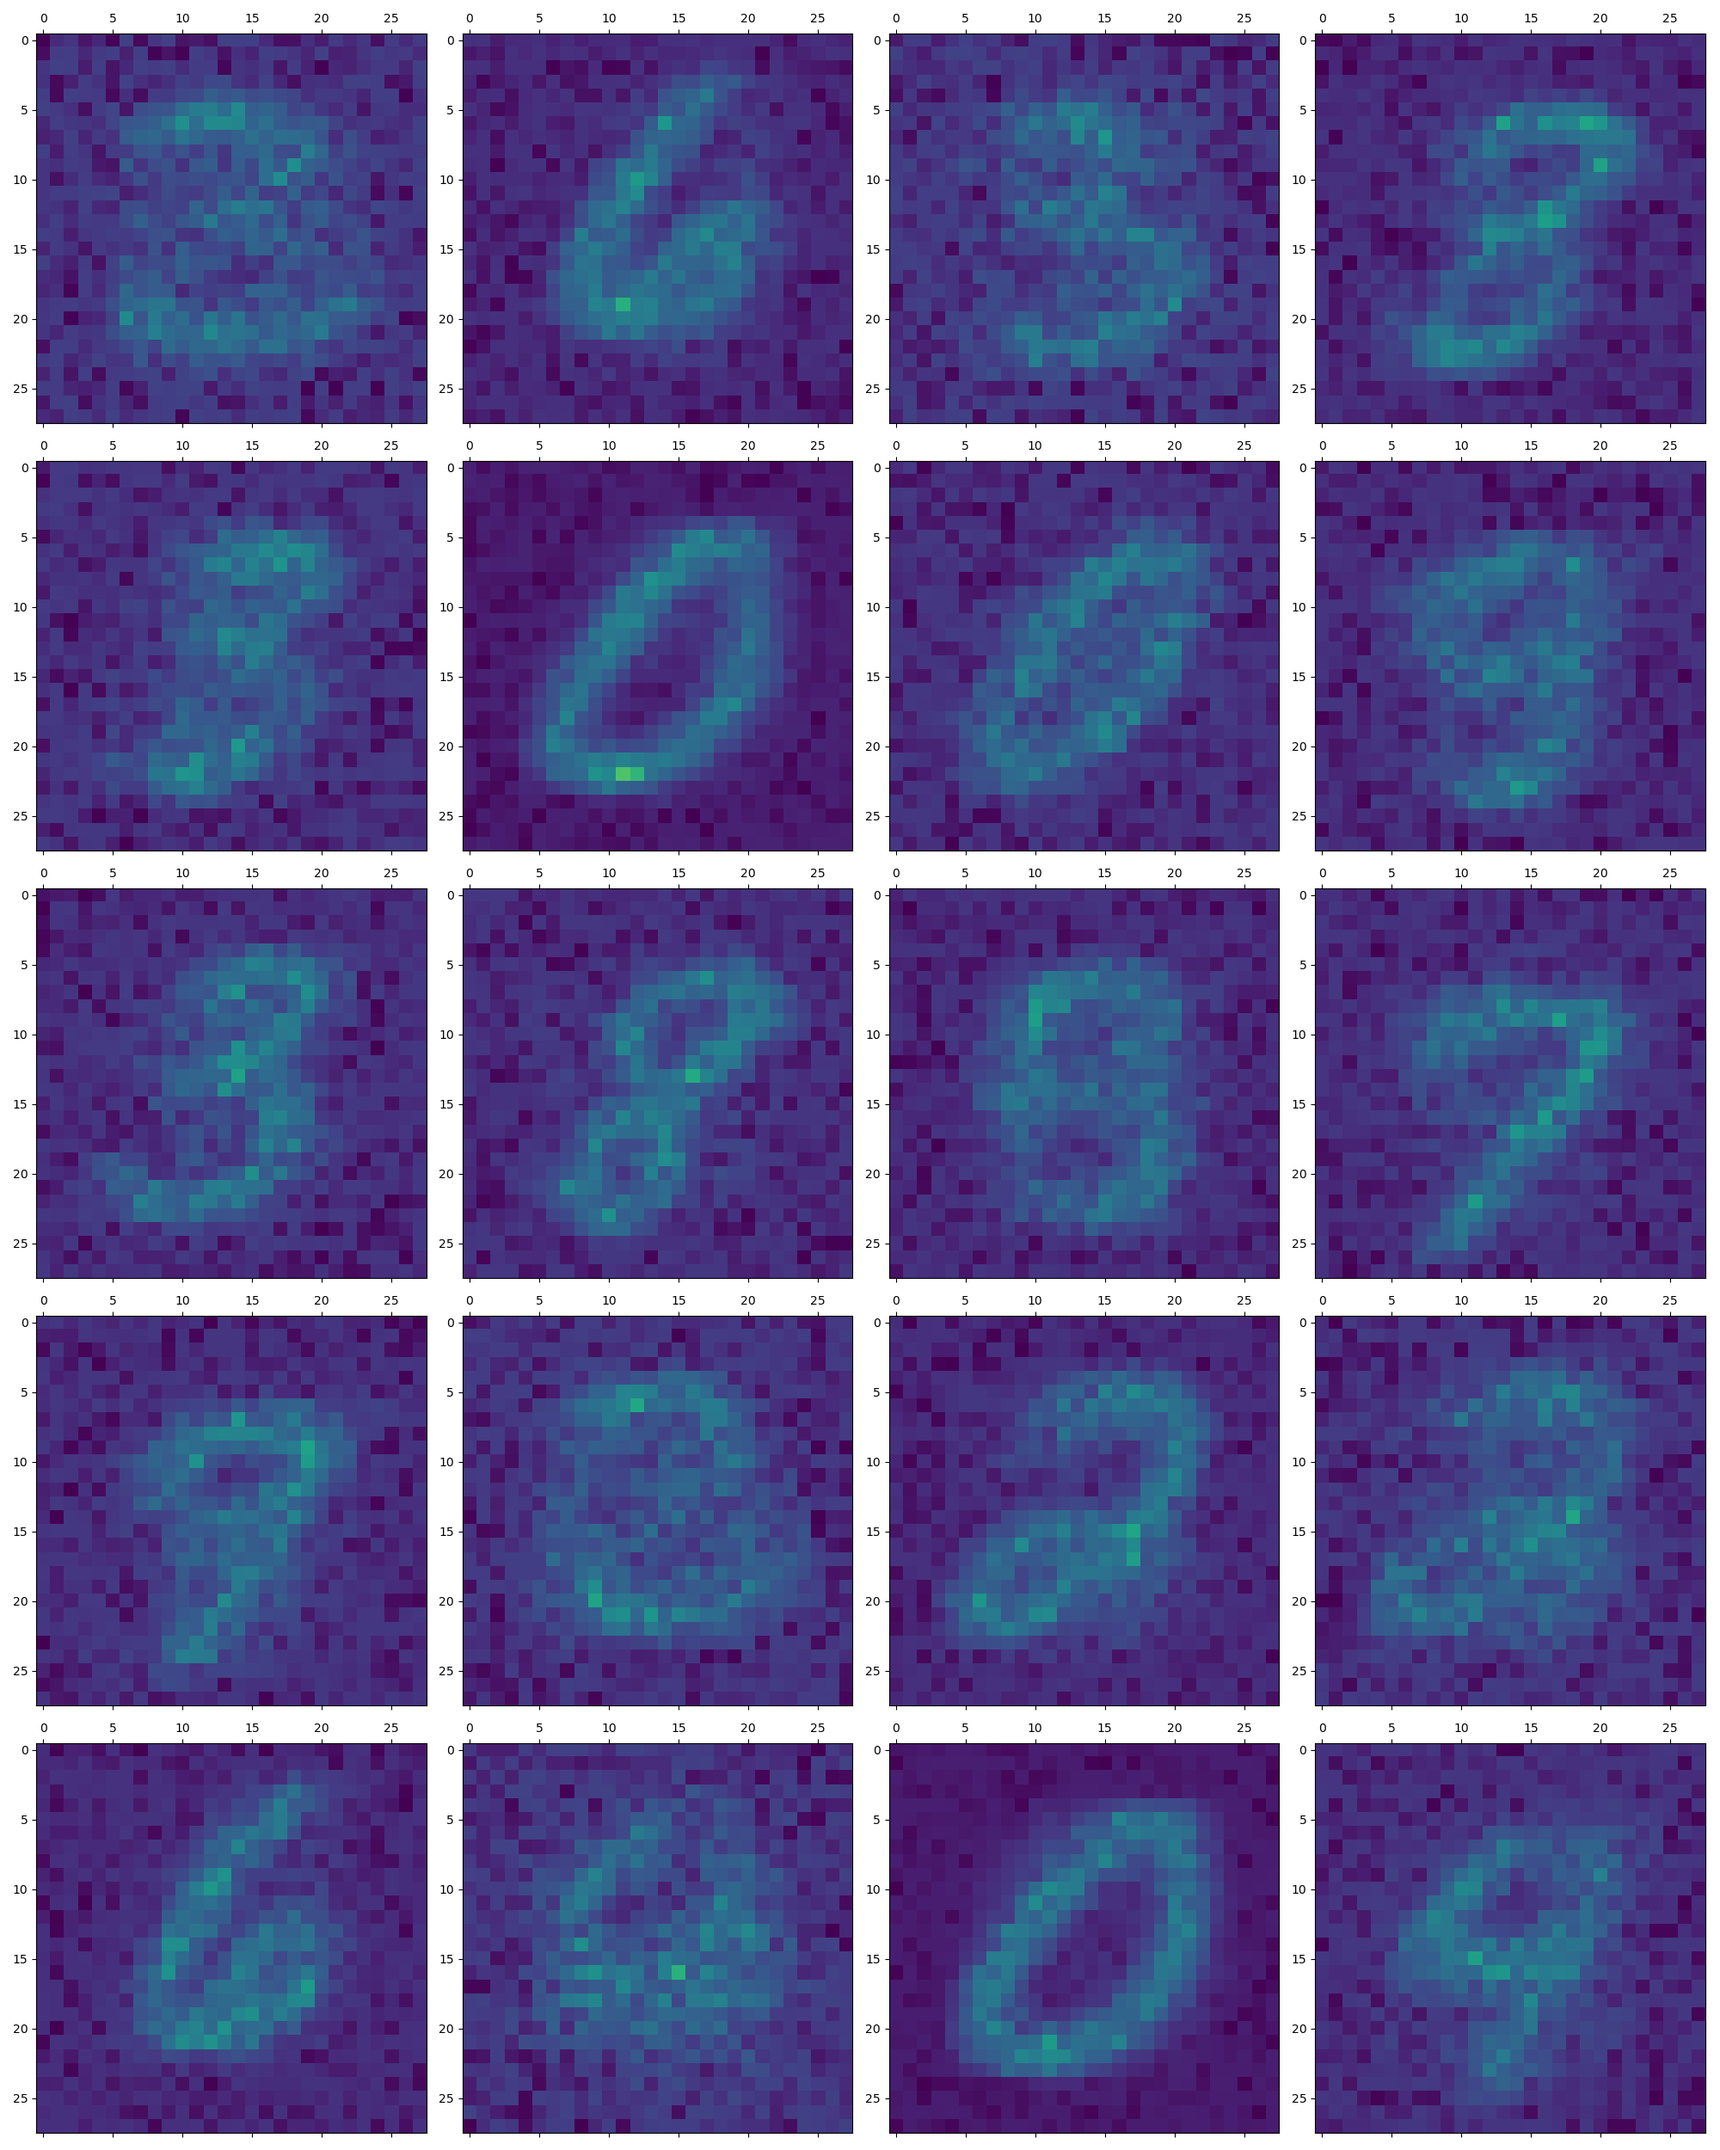
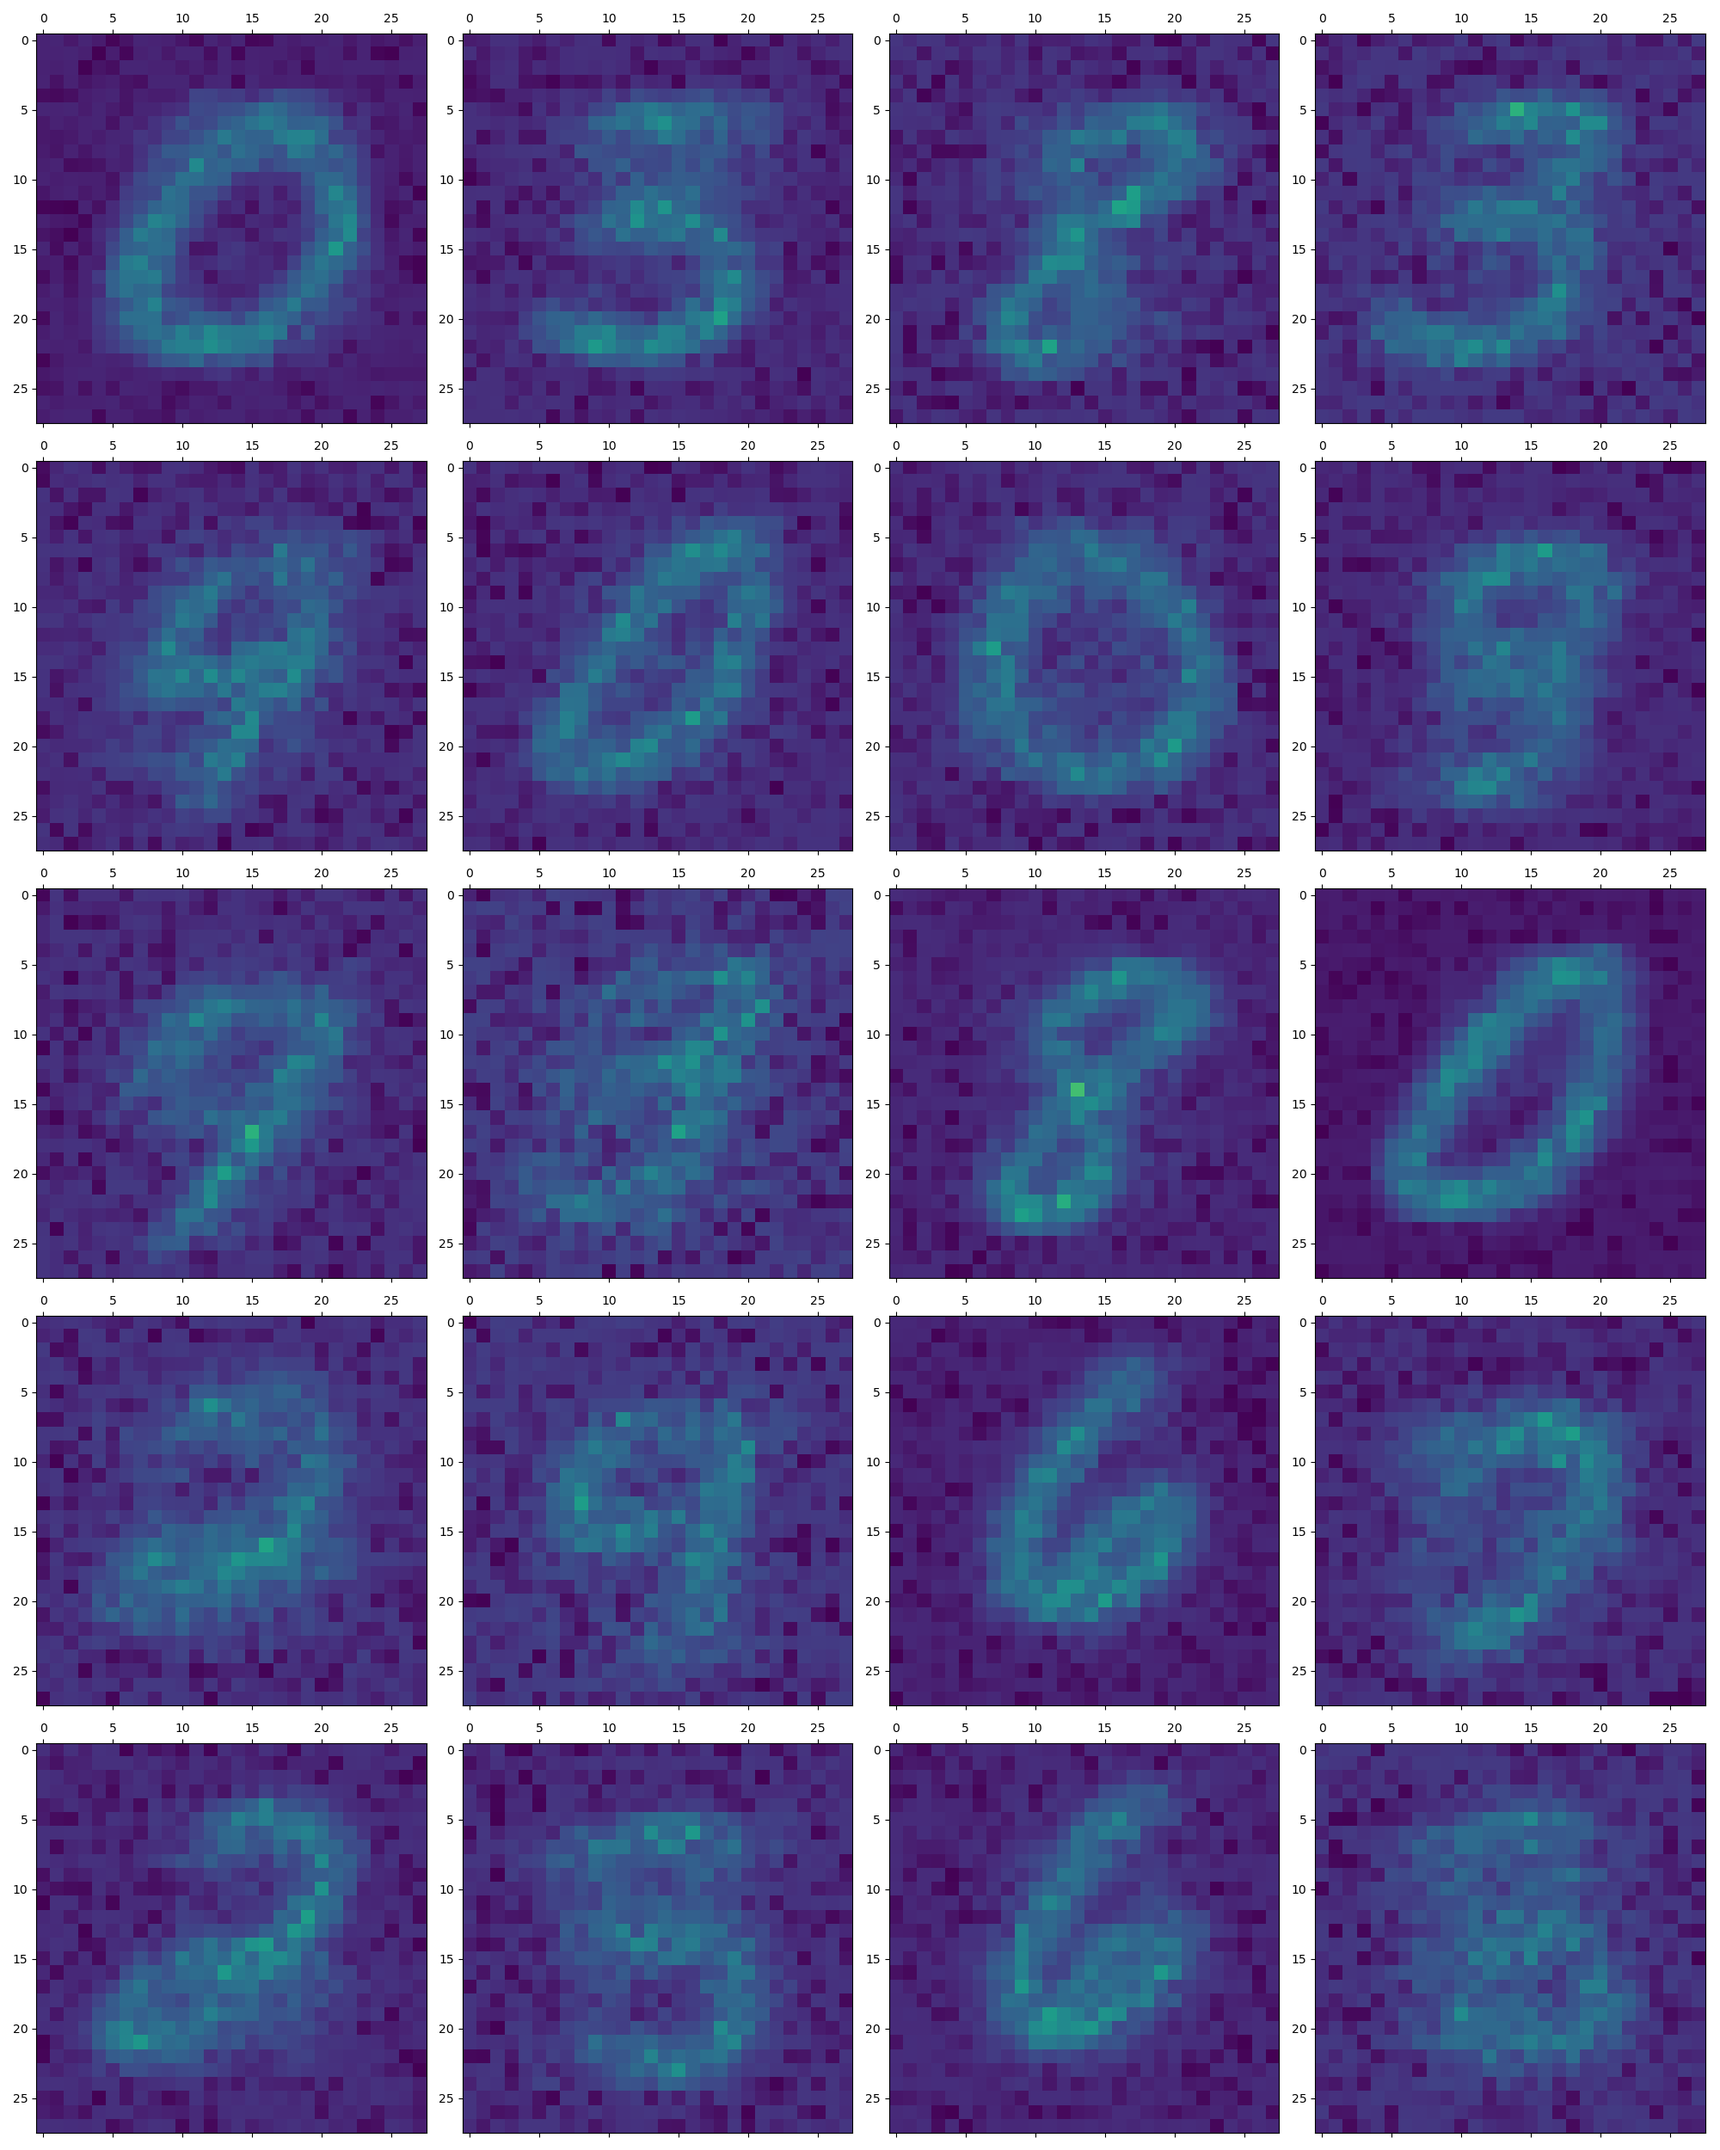
updates

Changed region(s): [[0.0, 0.0, 0.992, 0.9984]]

diff --git a/mnist_multiple_exploration_tio2_v3.py b/mnist_multiple_exploration_tio2_v3.py
@@ -62,7 +62,7 @@ if __name__ == '__main__':
 		, iterations=[2]
 		, presentation_time = [0.35]
 		, dt = [0.005]
-		, n_neurons = [300]
+		, n_neurons = [500]
 		, inhibition_time = [10]
 		, tau_ref = [0.002]
 		, seed =[100]

diff --git a/mnist_multiple_exploration_tio2_v4.py b/mnist_multiple_exploration_tio2_v4.py
@@ -62,7 +62,7 @@ if __name__ == '__main__':
 		, iterations=[2]
 		, presentation_time = [0.35]
 		, dt = [0.005]
-		, n_neurons = [300]
+		, n_neurons = [500]
 		, inhibition_time = [10]
 		, tau_ref = [0.002]
 		, seed =[100]
